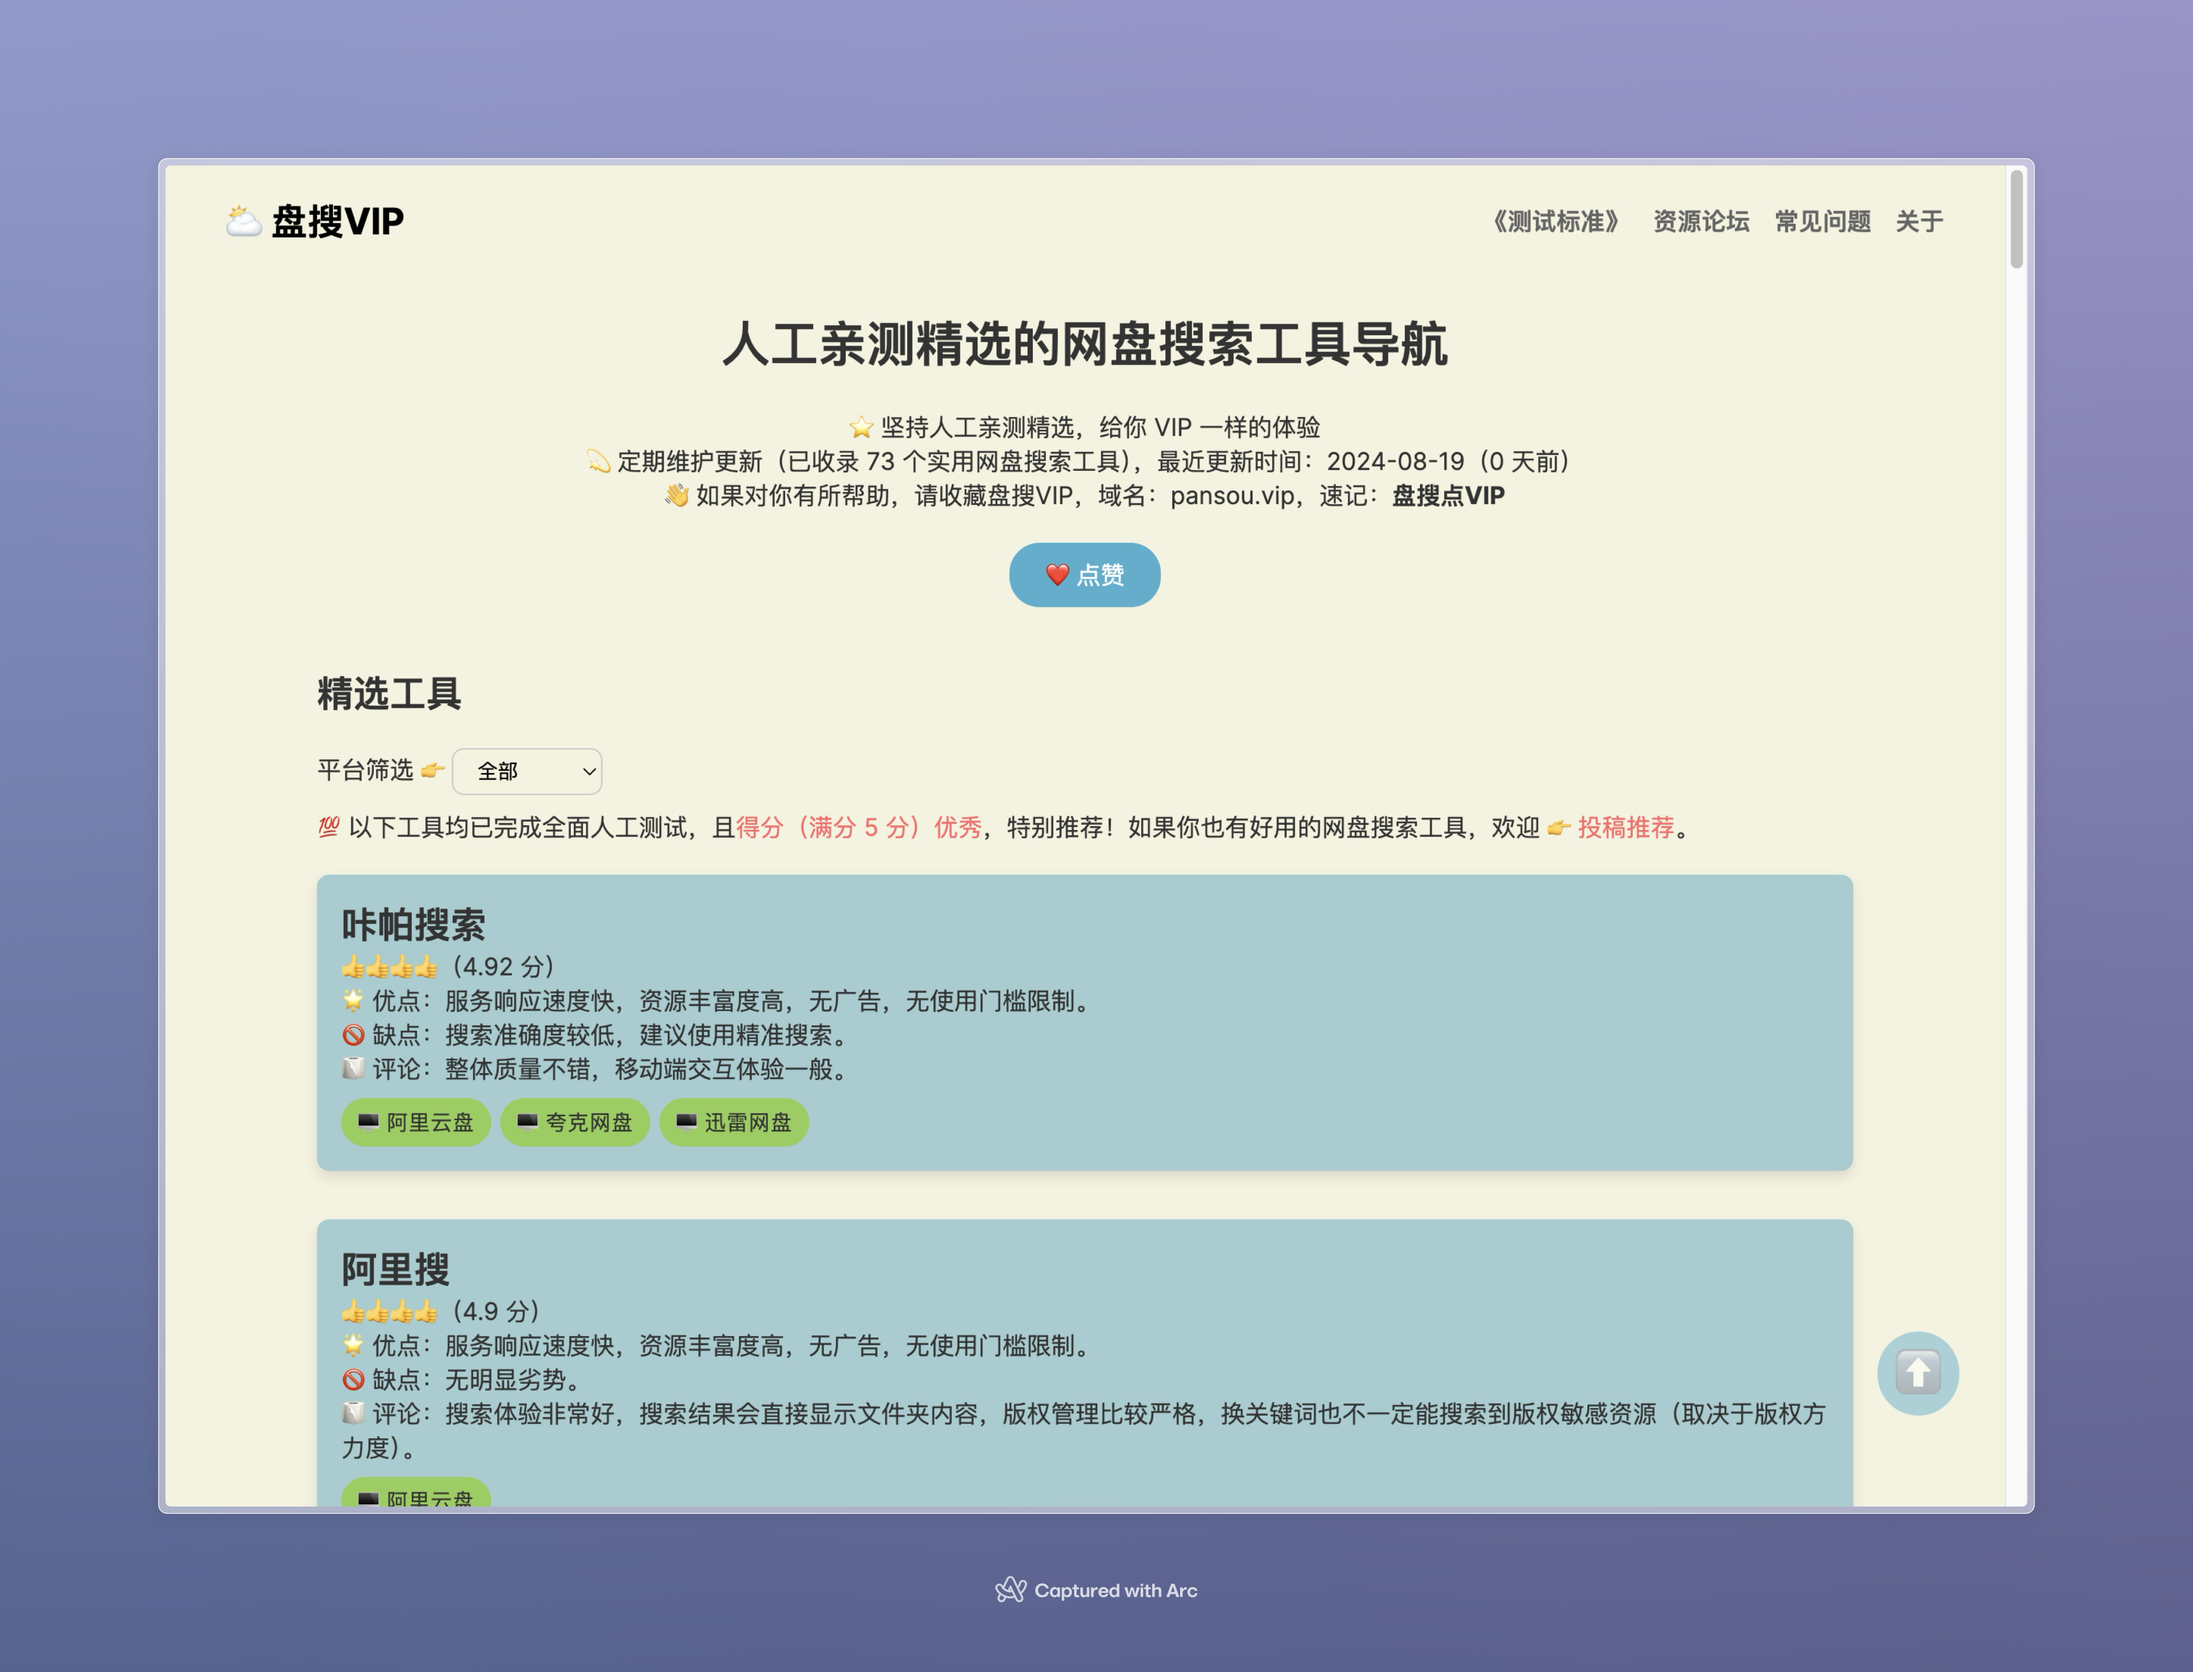
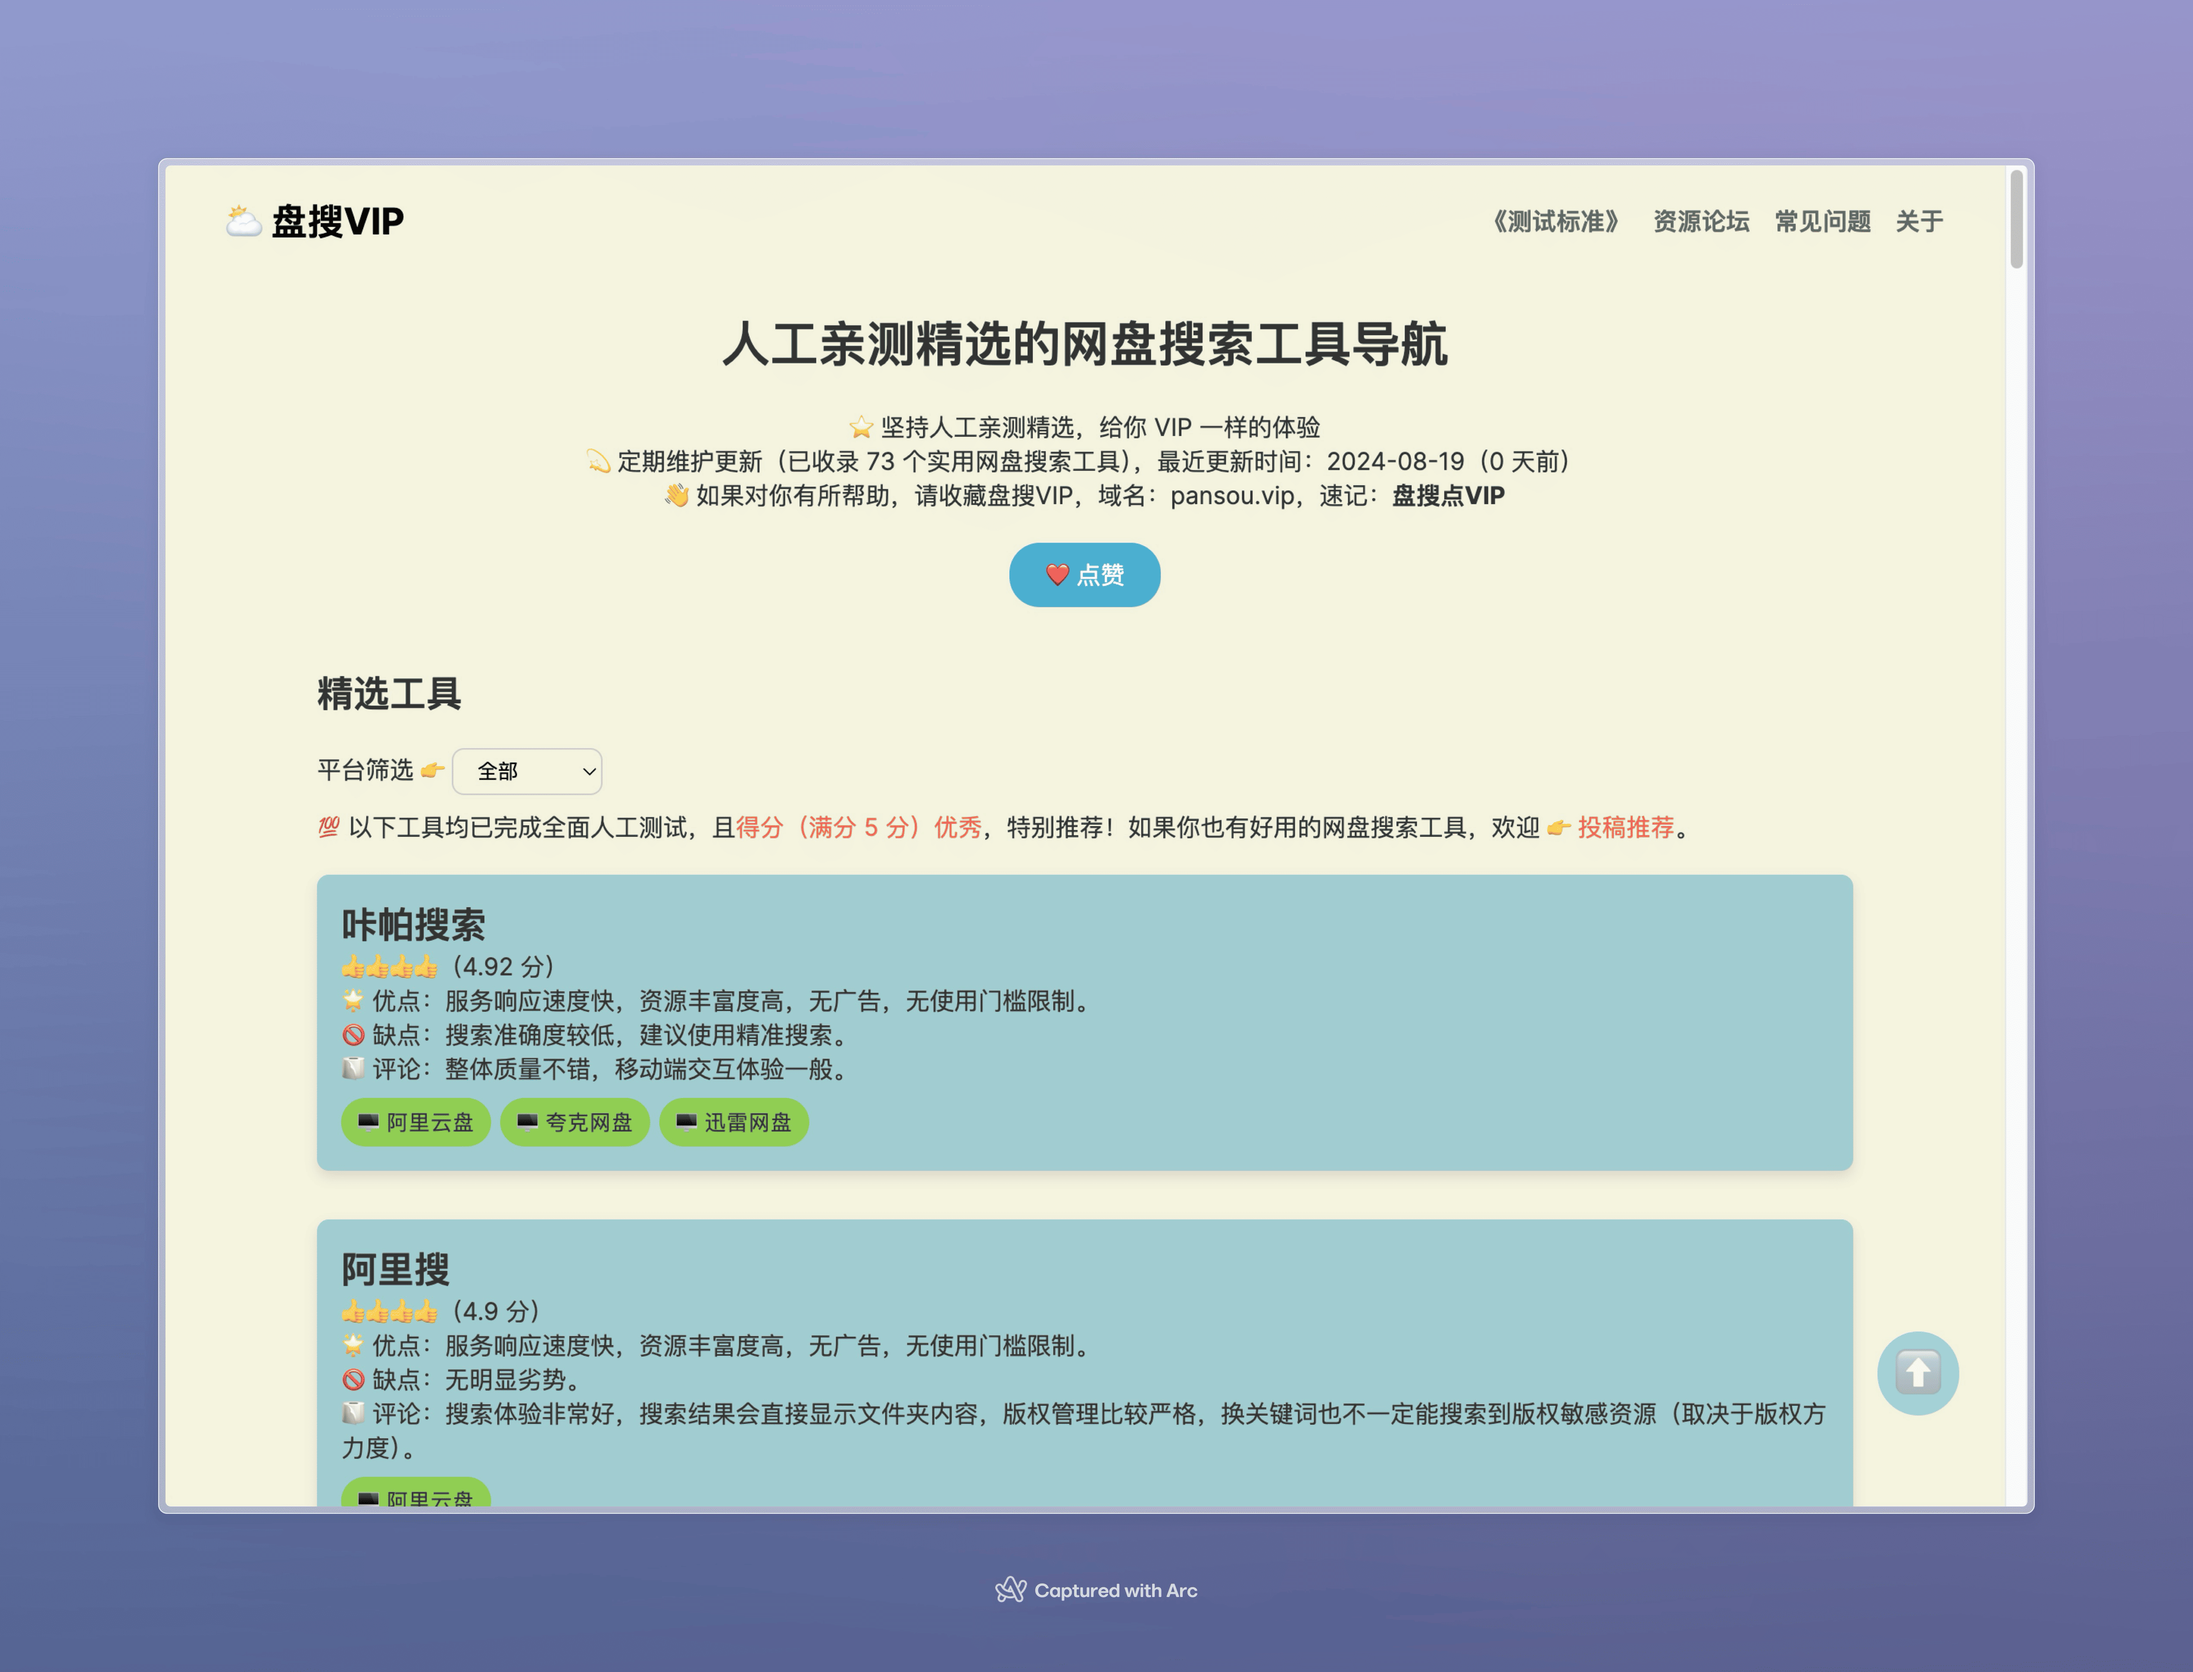
feat: add the gift page and hero popup

diff --git a/app/page.module.css b/app/page.module.css
@@ -15,13 +15,99 @@
   margin: 0px;
   border: 1px solid #ccc;
   border-radius: 8px;
-  background-color: #F4F2DE;
+  background-color: #f4f2de;
 }
 
 .filterDiv select:focus {
   /* 下拉菜单聚焦时的样式 */
   outline: none;
   border-color: #a1ccd1;
+}
+
+.gift {
+  position: fixed; /* 固定定位 */
+  bottom: 130px;
+  right: 40px;
+  z-index: 99; /* 确保按钮在页面内容之上 */
+  border: none; /* 无边框 */
+  outline: none; /* 点击时无轮廓 */
+  background-color: #4aafd1;
+  /* opacity: 0.5; */
+  color: white; /* 文字颜色 */
+  border-radius: 30px; /* 圆角 */
+  font-size: 30px; /* 字体大小 */
+  padding: 8px 12px; /* 内边距 */
+}
+
+.hideGift {
+  cursor: pointer;
+}
+
+.hideGift:hover {
+  background-color: #8ece51;
+}
+
+.showGift {
+  width: 400px;
+  height: 120px;
+  display: flex;
+  padding: 0;
+}
+
+.giftContent {
+  display: flex;
+  width: 100%;
+}
+
+.textArea {
+  flex: 3;
+  padding: 10px 20px;
+  color: white;
+  font-size: 1rem;
+}
+
+.textArea b {
+  font-size: 1.2rem;
+}
+
+.textArea div {
+  margin-top: 4px;
+}
+
+.btnArea {
+  flex: 1;
+  display: flex;
+  flex-direction: column;
+  justify-content: center;
+  align-items: flex-end;
+  border-left: 1px solid #ccc;
+}
+
+.btnArea hr {
+  width: 100%;
+  margin: 0;
+  color: #ccc;
+}
+
+.btnArea button {
+  width: 100%;
+  height: 50%;
+  margin: auto 0px;
+  background-color: #4aafd1;
+  cursor: pointer;
+  color: #fff;
+  border: none;
+}
+
+.upBtn {
+  border-radius: 0px 30px 0px 0px;
+}
+.downBtn {
+  border-radius: 0px 0px 30px 0px;
+}
+
+.btnArea button:hover {
+  background-color: #8ece51;
 }
 
 .backToTopBtn {
@@ -31,7 +117,7 @@
   z-index: 99; /* 确保按钮在页面内容之上 */
   border: none; /* 无边框 */
   outline: none; /* 点击时无轮廓 */
-  background-color: #4AAFD1;
+  background-color: #4aafd1;
   opacity: 0.5; /* 初始透明度 */
   color: white; /* 文字颜色 */
   cursor: pointer; /* 鼠标悬停时显示指针 */
@@ -42,7 +128,7 @@
 }
 
 .backToTopBtn:hover {
-  background-color: #8ECE51; /* 鼠标悬停时背景颜色变深 */
+  background-color: #8ece51; /* 鼠标悬停时背景颜色变深 */
   opacity: 1;
 }
 
@@ -56,6 +142,10 @@
     bottom: 60px;
     right: 10px;
   }
+
+  .gift {
+    right: 10px;
+  }
 }
 
 @media (min-width: 768px) and (max-width: 1023px) {
@@ -65,6 +155,10 @@
 
   .backToTopBtn {
     bottom: 60px;
+    right: 20px;
+  }
+
+  .gift {
     right: 20px;
   }
 }
@@ -78,6 +172,10 @@
     bottom: 60px;
     right: 30px;
   }
+
+  .gift {
+    right: 30px;
+  }
 }
 
 @media (min-width: 1300px) {
@@ -87,6 +185,10 @@
 
   .backToTopBtn {
     bottom: 60px;
+    right: 40px;
+  }
+
+  .gift {
     right: 40px;
   }
 }

diff --git a/app/page.js b/app/page.js
@@ -13,6 +13,8 @@ import wastedSites from "../public/data/wastedSites.json";
 import forumSites from "../public/data/forumSites.json";
 
 export default function Home() {
+  const [showGift, setShowGift] = useState(true);
+
   // 全局常量，数据最新更新时间（字符串格式）
   const lastUpdateDateStr = "2024-10-09";
 
@@ -348,6 +350,47 @@ export default function Home() {
           </div>
         )}
         {/* 废弃工具 End */}
+      </div>
+      {/* 礼物 */}
+      <div
+        className={`${styles.gift} ${
+          showGift ? styles.showGift : styles.hideGift
+        }`}
+        onClick={() => {
+          showGift ? setShowGift(false) : setShowGift(true);
+        }}
+      >
+        {showGift ? (
+          <div className={styles.giftContent}>
+            <div className={styles.textArea}>
+              <b>💰 副业赚钱</b>
+              <div>
+                <p>搭建专属的网盘搜索工具，轻松赚取网盘分佣！更多副业...</p>
+              </div>
+            </div>
+            <div className={styles.btnArea}>
+              <button
+                className={styles.upBtn}
+                onClick={() => {
+                  setShowGift(false);
+                }}
+              >
+                我知道了
+              </button>
+              <hr />
+              <button
+                className={styles.downBtn}
+                onClick={() => {
+                  window.location.href = "/gift";
+                }}
+              >
+                我去看看
+              </button>
+            </div>
+          </div>
+        ) : (
+          "💰"
+        )}
       </div>
       {/* <AdBanner /> */}
       <button

diff --git a/app/gift/page.js b/app/gift/page.js
@@ -1,0 +1,42 @@
+import Image from "next/image";
+
+export const metadata = {
+  title: "网盘搜索项目副业赚钱 - 网盘搜索工具精选导航",
+  description: "盘搜VIP 推荐的网盘搜索项目，帮助用户利用副业赚钱。",
+  metadataBase: new URL("https://www.pansou.vip/"),
+  alternates: {
+    canonical: "/gift",
+  },
+};
+
+export default function Home() {
+  return (
+    <div>
+      <h1></h1>
+      <div>
+        <h2>搭建你自己的网盘搜索工具 & 副业赚钱</h2>
+        <Image
+          src="/img/yuansou.png"
+          alt="元搜系统截图"
+          layout="responsive"
+          width={499}
+          height={194}
+        />
+        <br />
+        <br />
+        <p>
+          内测中... 你可以通过{" 👉 "}
+          <a
+            href="https://cvlr2wiufrz.feishu.cn/share/base/form/shrcnHckduwGEEFk2Y3yR04K3Ic?prefill_反馈类型=副业赚钱"
+            title="留言问卷链接"
+            target="_blank"
+          >
+            这个表单
+          </a>
+          {" 👈 "}
+          提交你的微信，我将尽快（24h 内）与你取得联系。
+        </p>
+      </div>
+    </div>
+  );
+}

diff --git a/app/components/hero/index.module.css b/app/components/hero/index.module.css
@@ -6,14 +6,6 @@
   text-align: center; /* 文本居中 */
   min-height: 25vh; /* 至少为视口高度，确保有足够的空间 */
   padding: 0px;
-  /* background-color: #f9f9f9; 浅灰色背景 */
-}
-
-@media (max-width: 500px) {
-  .hero {
-    align-items: flex-start;
-    text-align: left;
-  }
 }
 
 .hero button {
@@ -30,4 +22,14 @@
 
 .hero button:hover {
   background-color: #8ece51; /* 鼠标悬停时颜色变深 */
+}
+
+@media (max-width: 500px) {
+  .hero {
+    align-items: flex-start;
+    text-align: left;
+  }
+  .hero button {
+    margin: 20px auto;
+  }
 }
